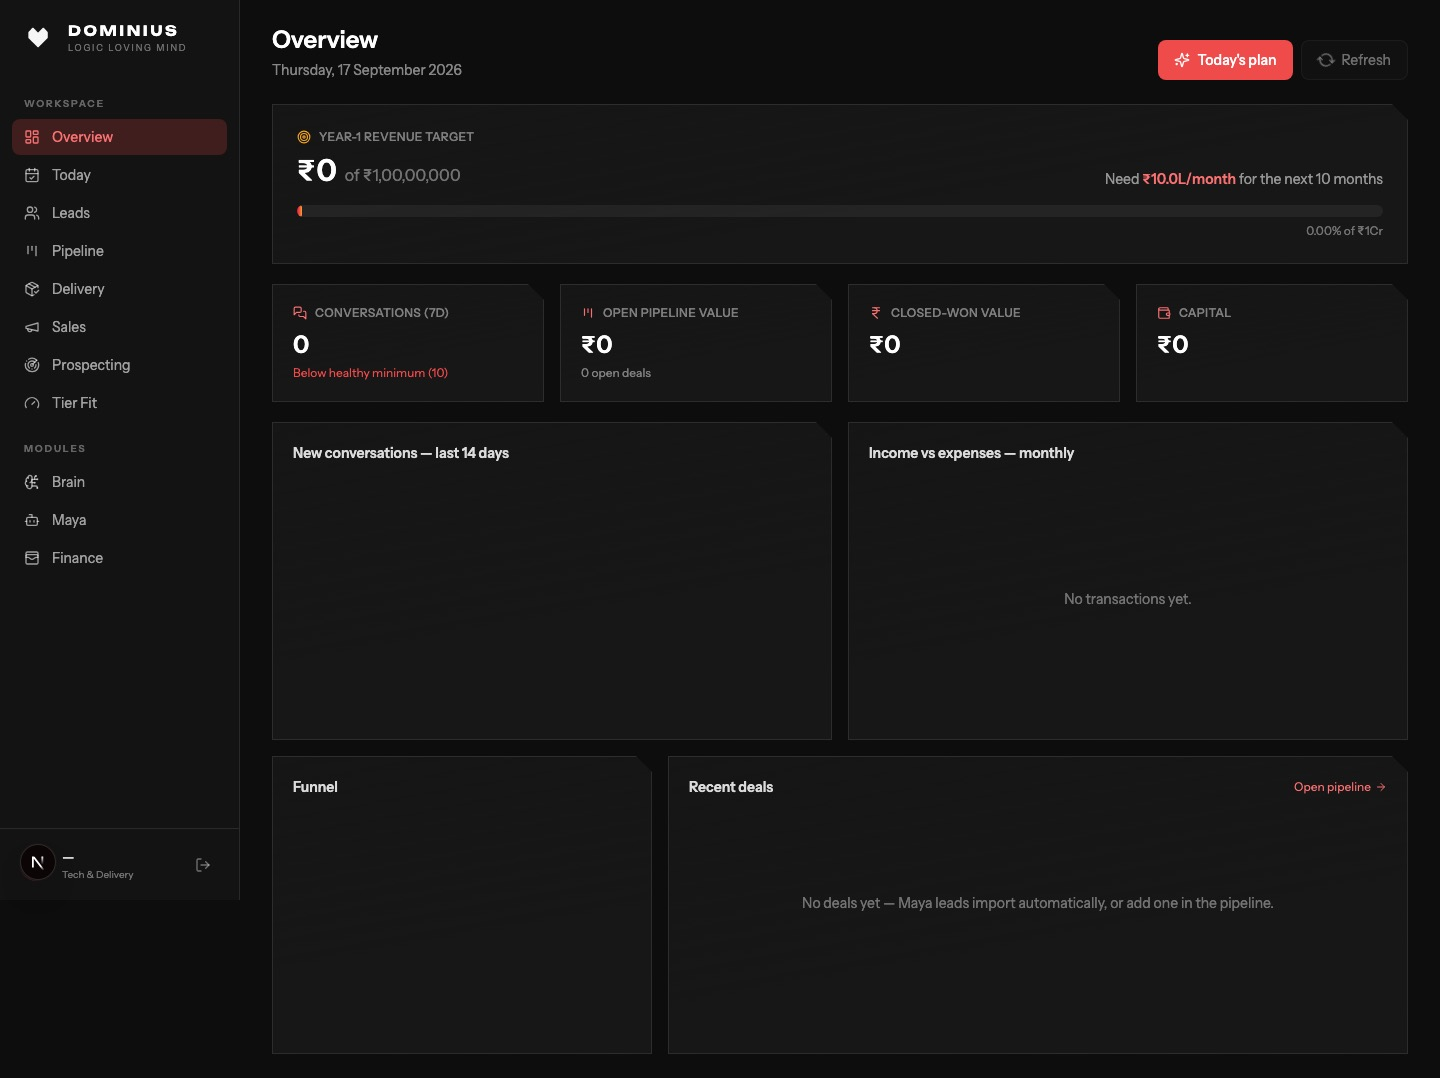
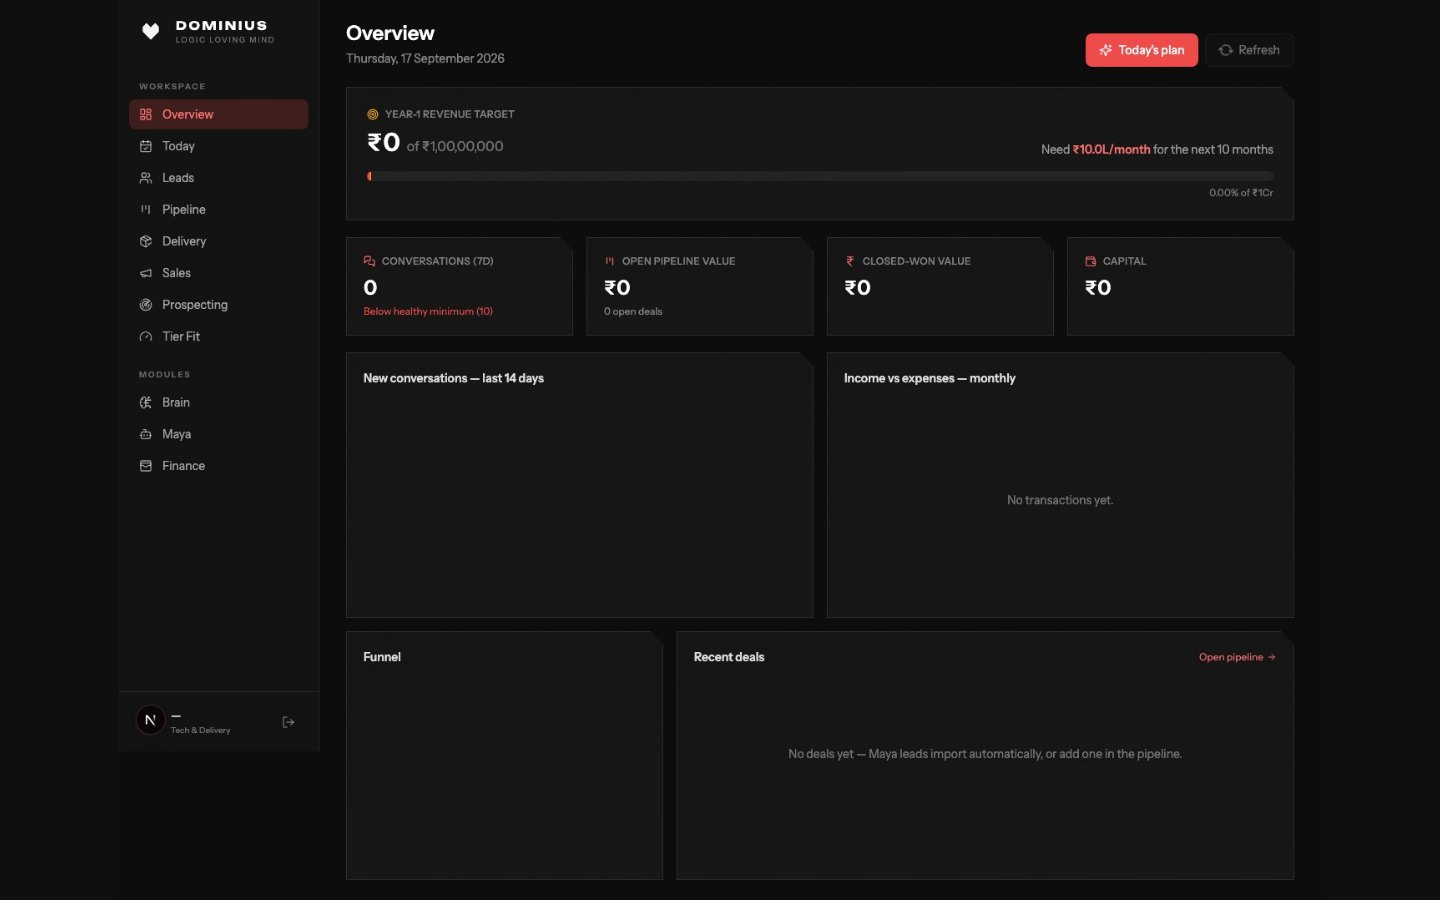
Give the missing projects real screenshots and lead with them
Clear Reports, the three private systems, the real-estate and admissions
agents, AGENT SaaS and SAHAS Tourism had no interface to show. Capture
each one from the running system at 1440x900, the ratio the covers are
cropped to, so nothing is cut off at the sides any more.

Homepage tiles lead with the strongest captures instead of the platform
first, private systems link to their own /work section rather than nowhere,
and the three projects that genuinely have no interface get a designed
cover with a note about what they are.

diff --git a/content/work.ts b/content/work.ts
@@ -24,6 +24,8 @@ export type WorkItem = {
   links: WorkLink[];
   /** A real UI screenshot, where the system has a reachable public interface. */
   image?: { src: string; alt: string };
+  /** Why there is no screenshot, shown on the cover plate when image is absent. */
+  coverNote?: string;
 };
 
 export const WORK_STANDFIRST =
@@ -93,6 +95,7 @@ export const WORK: WorkItem[] = [
       "Meta sends all messages to one webhook and events are routed by phone number. CRM data is scoped by tenant, with a 14-day trial and simple billing.",
     ],
     stack: "Node/Express · SQLite · WhatsApp Cloud API · Google Calendar OAuth",
+    image: { src: "/work/agent-saas.jpg", alt: "Tenant user management in the AGENT SaaS dashboard" },
     links: [{ label: "Private. Open to a screen share." }],
   },
   {
@@ -106,6 +109,7 @@ export const WORK: WorkItem[] = [
       "Deploy scripts install Node, Caddy and fail2ban, generate secrets and set up HTTPS automatically.",
     ],
     stack: "Node/Express · React · SQLite · Caddy · DigitalOcean",
+    image: { src: "/work/real-estate-suite.jpg", alt: "The Real Estate Suite projects and inventory view" },
     links: [{ label: "Private. Open to a screen share." }],
   },
   {
@@ -120,6 +124,7 @@ export const WORK: WorkItem[] = [
       "Books appointments into Google Calendar and stops replying once a human has taken over.",
     ],
     stack: "Node 20 · better-sqlite3 · gpt-4o-mini (AICredits) · WhatsApp Cloud API · Google Apps Script",
+    image: { src: "/work/real-estate-agent.jpg", alt: "The real-estate agent console, mid-qualification" },
     links: [
       { label: "Live demo: whatsapp-demo-agent.vercel.app", href: "https://whatsapp-demo-agent.vercel.app", external: true },
       { label: "github.com/logiclovingmind/real-estate-whatsapp-agent", href: "https://github.com/logiclovingmind/real-estate-whatsapp-agent", external: true },
@@ -136,6 +141,7 @@ export const WORK: WorkItem[] = [
       "Books time slots against the institute's real availability. It scores leads HOT, WARM or COLD and accepts voice notes via Whisper.",
     ],
     stack: "Node 20 · Express · Whisper · Google Sheets logging · WhatsApp Cloud API",
+    image: { src: "/work/admissions-agent.jpg", alt: "The BrightPath Academy admissions agent answering on WhatsApp" },
     links: [
       { label: "Live demo: education-ai-lemon.vercel.app", href: "https://education-ai-lemon.vercel.app", external: true },
     ],
@@ -182,6 +188,7 @@ export const WORK: WorkItem[] = [
       "Education ships as a live admissions agent and the clinic variant includes the medical advice guardrail. Every vertical logs leads into the client's own Google Sheet.",
     ],
     stack: "Config-driven Node agents · WhatsApp Cloud API · Google Sheets · vercel.json deploys",
+    coverNote: "Runs on WhatsApp · no web interface",
     links: [
       { label: "github.com/logiclovingmind/real-estate-whatsapp-agent-template", href: "https://github.com/logiclovingmind/real-estate-whatsapp-agent-template", external: true },
     ],
@@ -233,6 +240,7 @@ export const WORK: WorkItem[] = [
       "It deliberately avoids Google Calendar, using an offline-capable PWA with .ics files instead.",
     ],
     stack: "Node 20 ESM · better-sqlite3 · React/Vite PWA · VAPID web push",
+    image: { src: "/work/izi-os.jpg", alt: "The IZI OS pipeline" },
     links: [{ label: "Private. One instance per client; open to a screen share." }],
   },
   {
@@ -247,6 +255,7 @@ export const WORK: WorkItem[] = [
       "Backups are encrypted with restic. It also generates cost-sheet PDFs and lets you switch off an agent in one step.",
     ],
     stack: "Node/Express · PostgreSQL 16 · TOTP 2FA · Tailscale/WireGuard · restic",
+    image: { src: "/work/eon.jpg", alt: "The EON Private Fortress OS dashboard" },
     links: [{ label: "Private by design. Open to a screen share." }],
   },
   {
@@ -294,6 +303,7 @@ export const WORK: WorkItem[] = [
       "A report is released only after a two-step pathologist signature. Amendments replace the report instead of editing it.",
     ],
     stack: "React 19 · Supabase (Postgres + RLS) · Cloudflare Pages",
+    image: { src: "/work/clear-reports.jpg", alt: "The Clear Reports lab worklist" },
     links: [{ label: "Private. Deployment in progress; open to a screen share." }],
   },
   {
@@ -307,6 +317,7 @@ export const WORK: WorkItem[] = [
       "A synthetic replay harness measures about 61 hours of warning lead time compared with observed enforcement.",
     ],
     stack: "TypeScript · tsx · better-sqlite3 · zero runtime deps",
+    coverNote: "A command-line monitor · no web interface",
     links: [
       { label: "github.com/logiclovingmind/wa-sender-health", href: "https://github.com/logiclovingmind/wa-sender-health", external: true },
     ],
@@ -322,6 +333,7 @@ export const WORK: WorkItem[] = [
       "It is plain Markdown with a sync script, so the notes stay yours and can be used to produce other things.",
     ],
     stack: "Obsidian · Markdown · shell",
+    coverNote: "A Markdown vault · no web interface",
     links: [{ label: "Private. Personal vault; open to a screen share." }],
   },
   {
@@ -335,6 +347,7 @@ export const WORK: WorkItem[] = [
       "The site uses real trip inventory only. No stock imagery, no invented testimonials and no invented prices.",
     ],
     stack: "Static HTML/CSS/JS · Three.js r161 · vendored GLB · no build step",
+    image: { src: "/work/sahas-tourism.jpg", alt: "The SAHAS Tourism homepage" },
     links: [
       { label: "github.com/logiclovingmind/sahas-tourism-site", href: "https://github.com/logiclovingmind/sahas-tourism-site", external: true },
       { label: "sahastourism.com", href: "https://www.sahastourism.com", external: true },
@@ -386,8 +399,45 @@ export type SelectedItem = {
   image?: { src: string; alt: string };
 };
 
-/** Homepage tiles, one per group so the breadth is visible above the fold. */
+
+/** Homepage tiles, strongest interface first. Every tile leads with a real
+ *  capture of the system it describes; a private system links to its own entry
+ *  on the work page rather than nowhere. */
 export const SELECTED_WORK: SelectedItem[] = [
+  {
+    title: "Real-estate sales agent",
+    groupLabel: "Agent · live demo",
+    line: "Answers a property enquiry in English, Hinglish or Gujarati and files it as a structured lead. The console shows the transcript beside the fields the agent filled in.",
+    action: "Open the console",
+    href: "https://whatsapp-demo-agent.vercel.app",
+    external: true,
+    image: { src: "/work/real-estate-agent.jpg", alt: "The real-estate agent console, mid-qualification" },
+  },
+  {
+    title: "Admissions agent",
+    groupLabel: "Agent · live demo",
+    line: "Takes a prospective student from enquiry to enrolment inside one WhatsApp thread, reading payment screenshots and booking a counselling slot.",
+    action: "Watch it answer",
+    href: "https://education-ai-lemon.vercel.app",
+    external: true,
+    image: { src: "/work/admissions-agent.jpg", alt: "The BrightPath Academy admissions agent answering on WhatsApp" },
+  },
+  {
+    title: "IZI OS",
+    groupLabel: "Operating system",
+    line: "A Today screen that acts rather than lists: every open lead with its stage, its requirement and who last touched it.",
+    action: "See the detail",
+    href: "/work#systems",
+    image: { src: "/work/izi-os.jpg", alt: "The IZI OS pipeline" },
+  },
+  {
+    title: "EON — Private Fortress",
+    groupLabel: "Operating system",
+    line: "A brokerage operating system that is invisible to the internet. Every read, edit and export lands in an append-only audit log.",
+    action: "See the detail",
+    href: "/work#systems",
+    image: { src: "/work/eon.jpg", alt: "The EON Private Fortress OS dashboard" },
+  },
   {
     title: "WhatsApp Agent Platform",
     groupLabel: "Agent platform",
@@ -398,40 +448,20 @@ export const SELECTED_WORK: SelectedItem[] = [
     image: { src: "/work/wa-platform.jpg", alt: "The WhatsApp agent platform desk" },
   },
   {
-    title: "IZI — CRM Standard",
-    groupLabel: "Operating system",
-    line: "Brokerage operations software built to run on a low-cost server, with agent intake feeding leads straight in.",
-    action: "Use the repo",
-    href: "https://github.com/logiclovingmind/crm-standard",
-    external: true,
-    image: { src: "/work/crm-standard.jpg", alt: "The IZI operating system dashboard" },
+    title: "SAHAS Tourism",
+    groupLabel: "Site · delivered",
+    line: "A site built around a flying bird: it reveals each headline letter by letter, then perches in the gutter. Real trip inventory only.",
+    action: "See the detail",
+    href: "/work#sites",
+    image: { src: "/work/sahas-tourism.jpg", alt: "The SAHAS Tourism homepage" },
   },
   {
-    title: "Clinic front desk",
-    groupLabel: "Agent · live",
-    line: "Takes appointments and answers logistics questions, and gives no medical advice even when asked.",
-    action: "Try the demo",
-    href: "https://akhtar-lifecare-demo.vercel.app",
-    external: true,
-    image: { src: "/work/clinic-front-desk.jpg", alt: "The Akhtar Lifecare clinic front-desk site" },
-  },
-  {
-    title: "Salon booking site",
-    groupLabel: "Agent · live",
-    line: "A booking-first site where the menu, staff and availability belong to the owner, not the code.",
-    action: "Visit the site",
-    href: "https://reflection-beauty-salon.vercel.app",
-    external: true,
-    image: { src: "/work/salon-booking.jpg", alt: "The Reflection Beauty Salon booking site" },
-  },
-  {
-    title: "Pocket Split",
-    groupLabel: "Product · live",
-    line: "An offline-first expense splitter that works with no signal.",
-    action: "Open it",
-    href: "https://pocket-split-six.vercel.app",
-    external: true,
-    image: { src: "/work/pocket-split.jpg", alt: "The Pocket Split expense app" },
+    title: "Clear Reports",
+    groupLabel: "Reporting · in progress",
+    line: "Cloud reporting for pathology labs on free tiers. Row-level security holds the tenant boundary, and a report is released only after a two-step signature.",
+    action: "See the detail",
+    href: "/work#products",
+    image: { src: "/work/clear-reports.jpg", alt: "The Clear Reports lab worklist" },
   },
   {
     title: "Scroll-driven 3D site",
@@ -443,6 +473,33 @@ export const SELECTED_WORK: SelectedItem[] = [
     image: { src: "/work/scroll-3d.jpg", alt: "The scroll-driven 3D site" },
   },
   {
+    title: "IZI — CRM Standard",
+    groupLabel: "Operating system",
+    line: "Brokerage operations software built to run on a low-cost server, with agent intake feeding leads straight in.",
+    action: "Use the repo",
+    href: "https://github.com/logiclovingmind/crm-standard",
+    external: true,
+    image: { src: "/work/crm-standard.jpg", alt: "The IZI operating system dashboard" },
+  },
+  {
+    title: "Pocket Split",
+    groupLabel: "Product · live",
+    line: "An offline-first expense splitter that keeps working with no signal, then reconciles when the connection returns.",
+    action: "Open it",
+    href: "https://pocket-split-six.vercel.app",
+    external: true,
+    image: { src: "/work/pocket-split.jpg", alt: "The Pocket Split expense app" },
+  },
+  {
+    title: "DOMINIUS",
+    groupLabel: "Internal OS",
+    line: "The studio's command centre, with two AI agents built to different permission levels on purpose.",
+    action: "Read the case study",
+    href: "https://github.com/logiclovingmind/logiclovingmind/blob/main/dominius-case-study.md",
+    external: true,
+    image: { src: "/work/dominius.jpg", alt: "The DOMINIUS command centre" },
+  },
+  {
     title: "This site",
     groupLabel: "Site · live",
     line: "A single monochrome surface with a custom motion layer, built without an animation library.",
@@ -450,23 +507,5 @@ export const SELECTED_WORK: SelectedItem[] = [
     href: "https://github.com/logiclovingmind/logiclovingmind-web",
     external: true,
     image: { src: "/work/this-site.jpg", alt: "The logiclovingmind.com homepage" },
-  },
-  {
-    title: "DOMINIUS",
-    groupLabel: "Internal OS",
-    line: "The studio's command centre, with two AI agents built to different permission levels.",
-    action: "Read the case study",
-    href: "https://github.com/logiclovingmind/logiclovingmind/blob/main/dominius-case-study.md",
-    external: true,
-    image: { src: "/work/dominius.jpg", alt: "The DOMINIUS command centre" },
-  },
-  {
-    title: "Daily Fresh Music",
-    groupLabel: "Automation",
-    line: "A daily playlist across 23 languages, tuned by a taste model your likes sharpen.",
-    action: "See the repo",
-    href: "https://github.com/logiclovingmind/music-xp",
-    external: true,
-    image: { src: "/work/music-xp.jpg", alt: "The Music XP explorer dashboard" },
   },
 ];

diff --git a/components/ui/WorkCover.tsx b/components/ui/WorkCover.tsx
@@ -1,0 +1,36 @@
+/** The cover used when a system has no public interface to photograph. It is a
+ *  designed plate, not an empty frame: the monogram sits in a hairline square and
+ *  the reason is stated, so a missing screenshot never reads as a broken tile. */
+export function WorkCover({
+  monogram,
+  tag,
+  note,
+  className = "",
+}: {
+  monogram: string;
+  tag: string;
+  note: string;
+  className?: string;
+}) {
+  return (
+    <div
+      className={`relative flex aspect-[16/10] flex-col justify-between overflow-hidden border border-line-strong bg-lift p-6 ${className}`}
+    >
+      <div aria-hidden="true" className="pointer-events-none absolute inset-0">
+        <div className="absolute top-1/2 left-0 h-px w-full -translate-y-1/2 bg-line" />
+        <div className="absolute top-0 left-1/2 h-full w-px -translate-x-1/2 bg-line" />
+      </div>
+      <p className="font-mono relative text-[11px] tracking-[0.12em] text-text-tertiary uppercase">
+        {tag}
+      </p>
+      <div className="relative flex flex-col items-center gap-4">
+        <span className="font-display flex h-[86px] w-[86px] items-center justify-center border border-line-emphasis text-[52px] leading-none text-text-secondary">
+          {monogram}
+        </span>
+        <span className="font-mono text-[11px] tracking-[0.06em] text-text-tertiary">
+          {note}
+        </span>
+      </div>
+    </div>
+  );
+}

diff --git a/app/page.tsx b/app/page.tsx
@@ -7,6 +7,7 @@ import { PointerLight } from "@/components/hero/PointerLight";
 import { RevealHeadline } from "@/components/hero/RevealHeadline";
 import { LinkButton } from "@/components/ui/Button";
 import { Magnetic } from "@/components/ui/Magnetic";
+import { WorkCover } from "@/components/ui/WorkCover";
 import { CONTACT, SITE } from "@/content/site";
 import { SELECTED_WORK } from "@/content/work";
 
@@ -103,13 +104,13 @@ export default function HomePage() {
                     />
                   </div>
                 ) : (
-                  <div className="relative flex aspect-[16/10] items-center justify-center overflow-hidden border-b border-line bg-lift">
-                    <span
-                      aria-hidden="true"
-                      className="font-display text-[88px] leading-none text-text-tertiary opacity-[0.18]"
-                    >
-                      {item.title[0]}
-                    </span>
+                  <div className="border-b border-line">
+                    <WorkCover
+                      monogram={item.title[0]}
+                      tag={item.groupLabel}
+                      note="No public interface"
+                      className="border-0"
+                    />
                   </div>
                 )}
                 <div className="flex flex-1 flex-col p-5">

diff --git a/app/work/page.tsx b/app/work/page.tsx
@@ -3,6 +3,7 @@ import Image from "next/image";
 import Link from "next/link";
 import { WORK, WORK_GROUPS, WORK_STANDFIRST, type WorkItem } from "@/content/work";
 import { CONTACT } from "@/content/site";
+import { WorkCover } from "@/components/ui/WorkCover";
 
 export const metadata: Metadata = {
   title: "Work",
@@ -76,20 +77,11 @@ function WorkVisual({ item }: { item: WorkItem }) {
   }
 
   return (
-    <div className="relative flex aspect-[16/10] flex-col justify-between overflow-hidden border border-line-strong bg-lift p-6">
-      <p className="font-mono text-[11px] uppercase tracking-[0.12em] text-text-tertiary">
-        {item.tag}
-      </p>
-      <span
-        aria-hidden="true"
-        className="font-display pointer-events-none absolute left-1/2 top-1/2 -translate-x-1/2 -translate-y-1/2 text-[128px] leading-none text-text-tertiary opacity-[0.16]"
-      >
-        {item.title[0]}
-      </span>
-      <p className="font-mono relative text-[11px] tracking-[0.04em] text-text-tertiary">
-        {item.stack}
-      </p>
-    </div>
+    <WorkCover
+      monogram={item.title[0]}
+      tag={item.tag}
+      note={item.coverNote ?? "No public interface"}
+    />
   );
 }
 

diff --git a/README.md b/README.md
@@ -32,10 +32,11 @@ there to hold attention through the explanation, not to decorate it.
 - **A portfolio data model** in `content/work.ts`: every project carries a status tag
   (`Live`, `Public`, `Private`, `In progress`), detail bullets, a stack line and
   links. Private repos render as screen-share invites instead of dead anchors.
-- **Real product screenshots**, where a system has a reachable public UI. The shots
-  are captures of the actual running interface, edged and framed in the site's
-  hairline style; everything else renders as a designed monochrome cover, never a
-  fake mock-up.
+- **Real product screenshots**, taken from the running interface of each system —
+   public demos captured live, private systems captured from the real deployment on
+   this machine. Every shot in `public/work/` is normalised to exactly 1440×900, so
+   the 16:10 tile crops nothing on either page. Anything without an interface to
+   photograph gets a cover plate that states why, never a fake mock-up.
 - **Privacy policy and terms pages**, which are a hard requirement for Meta WhatsApp
   Business API approval, not an afterthought.
 - Applications submitted here route into DOMINIUS, the internal operating system that
